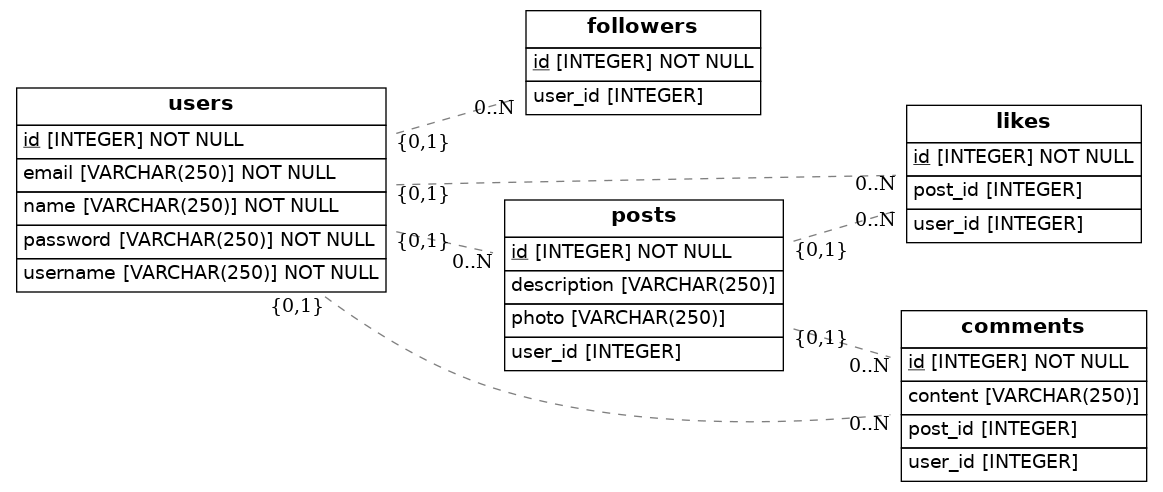
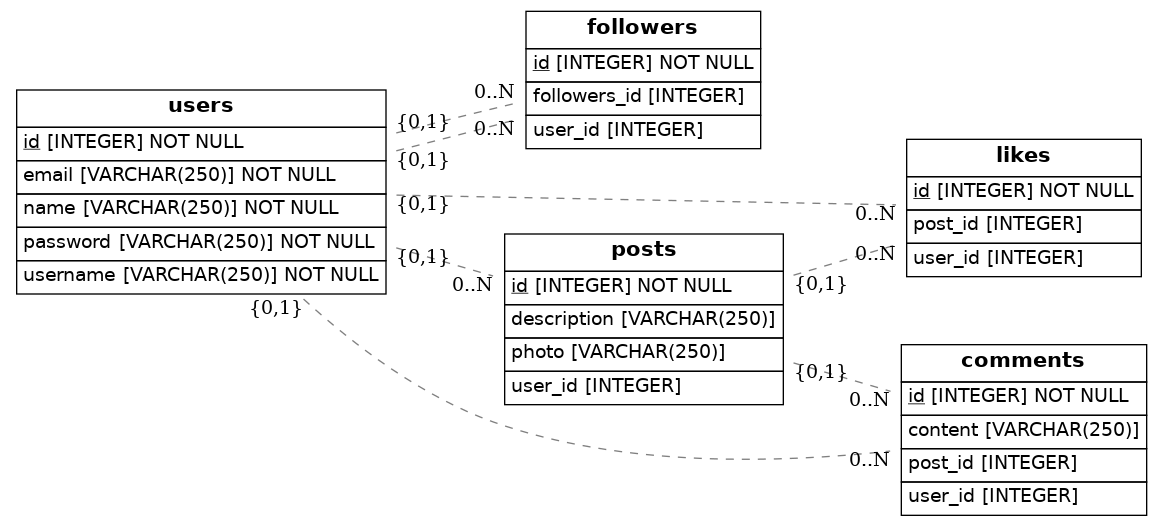
final

diff --git a/src/models.py b/src/models.py
@@ -23,7 +23,7 @@ class Followers(Base):
     # Here we define columns for the table address.
     # Notice that each column is also a normal Python instance attribute.
     id = Column(Integer, primary_key=True)
-    followers_id = (Integer, ForeignKey("users.id"))
+    followers_id = Column(Integer, ForeignKey("users.id"))
     user_id = Column(Integer, ForeignKey("users.id"))
    
 class Likes(Base):
